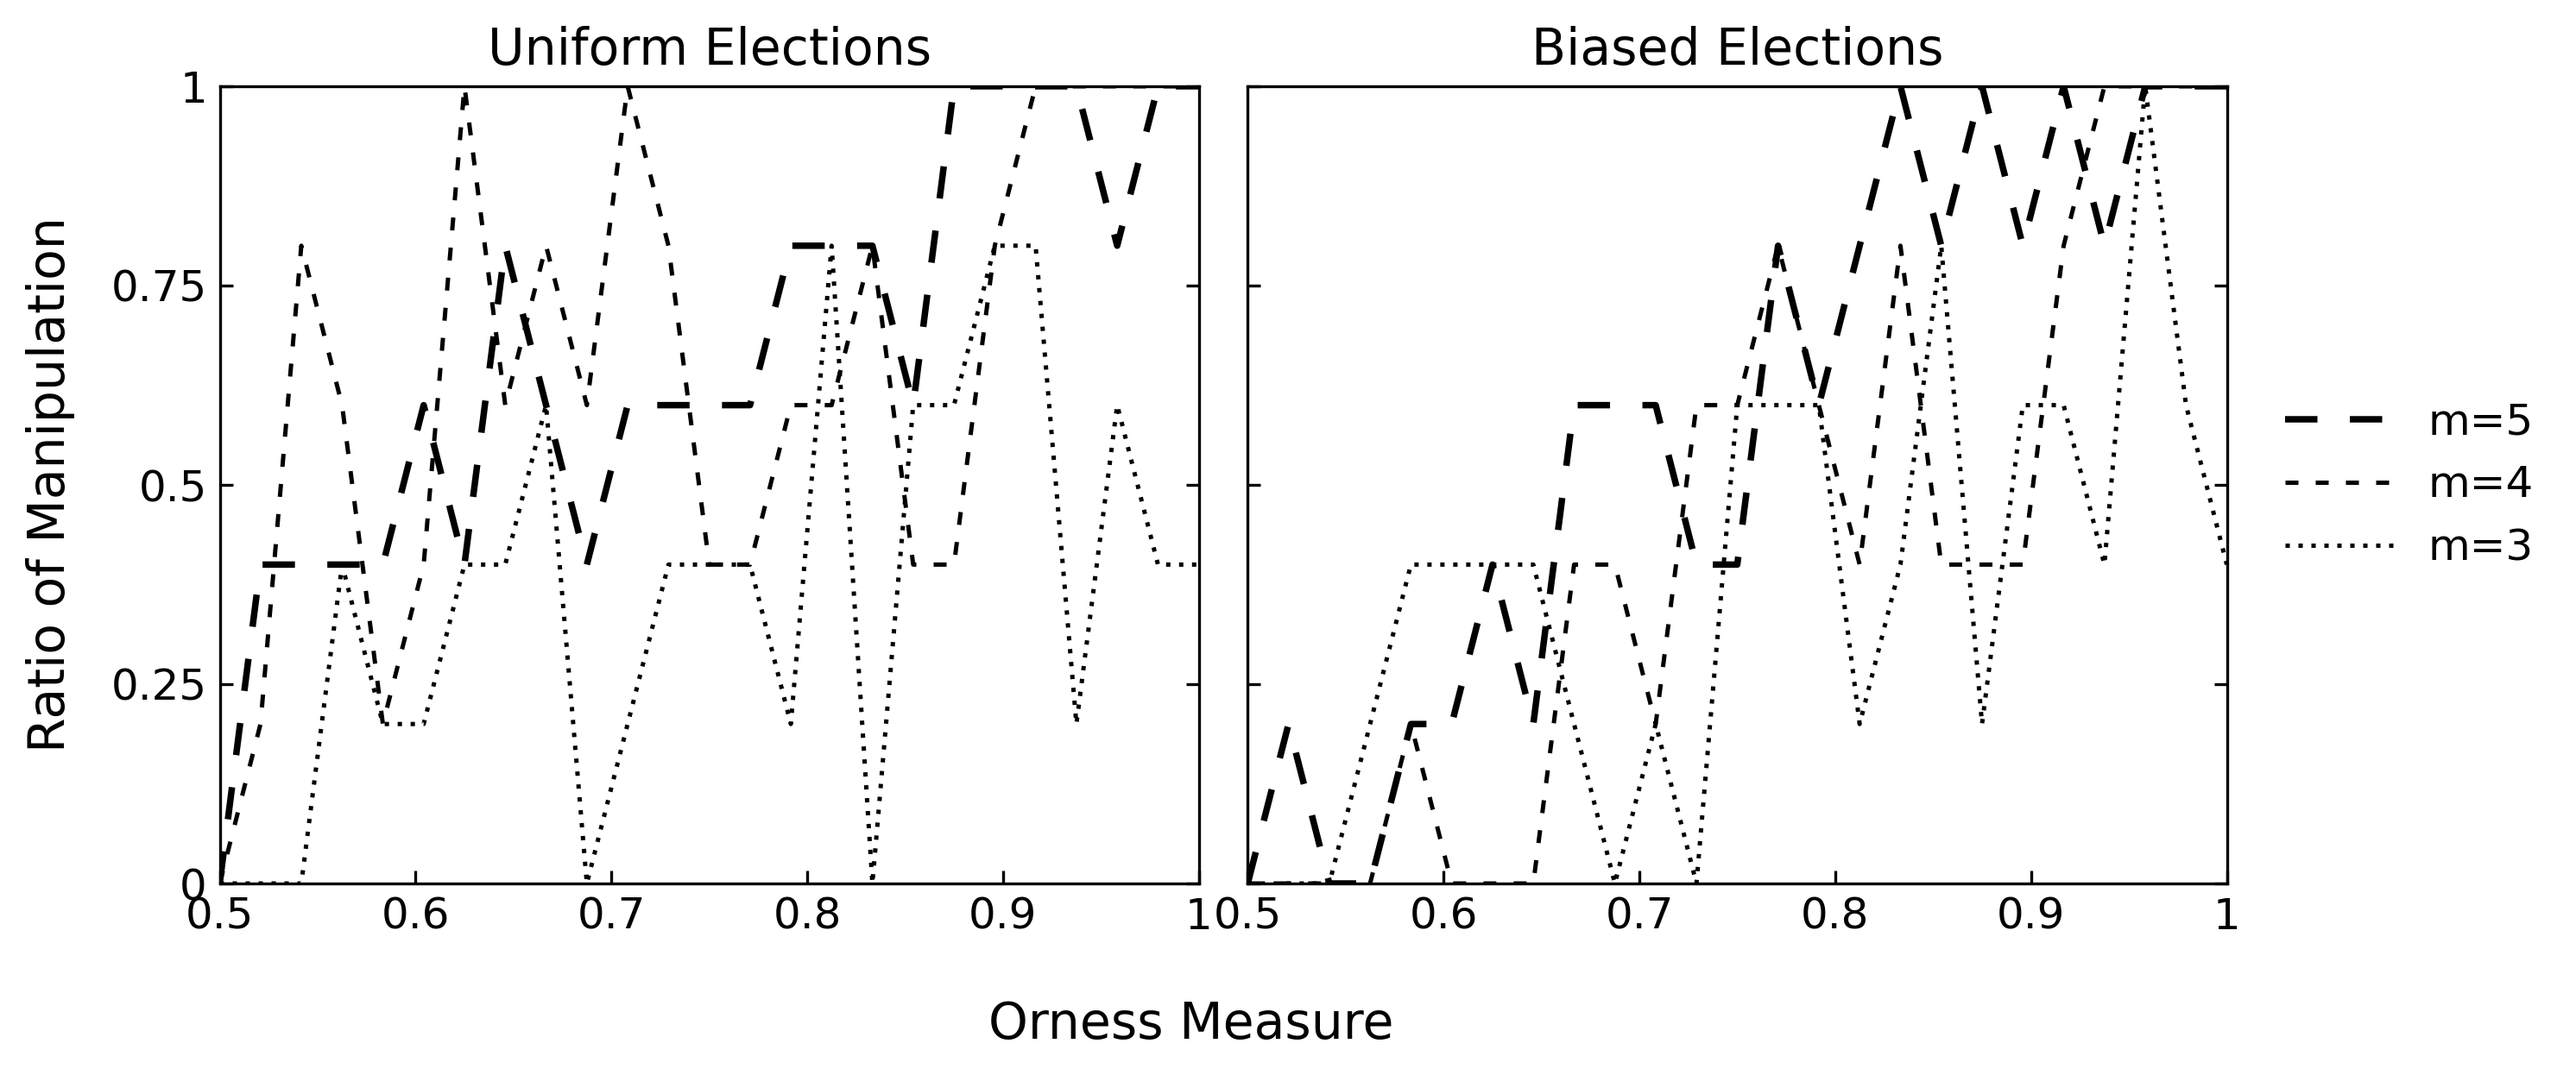
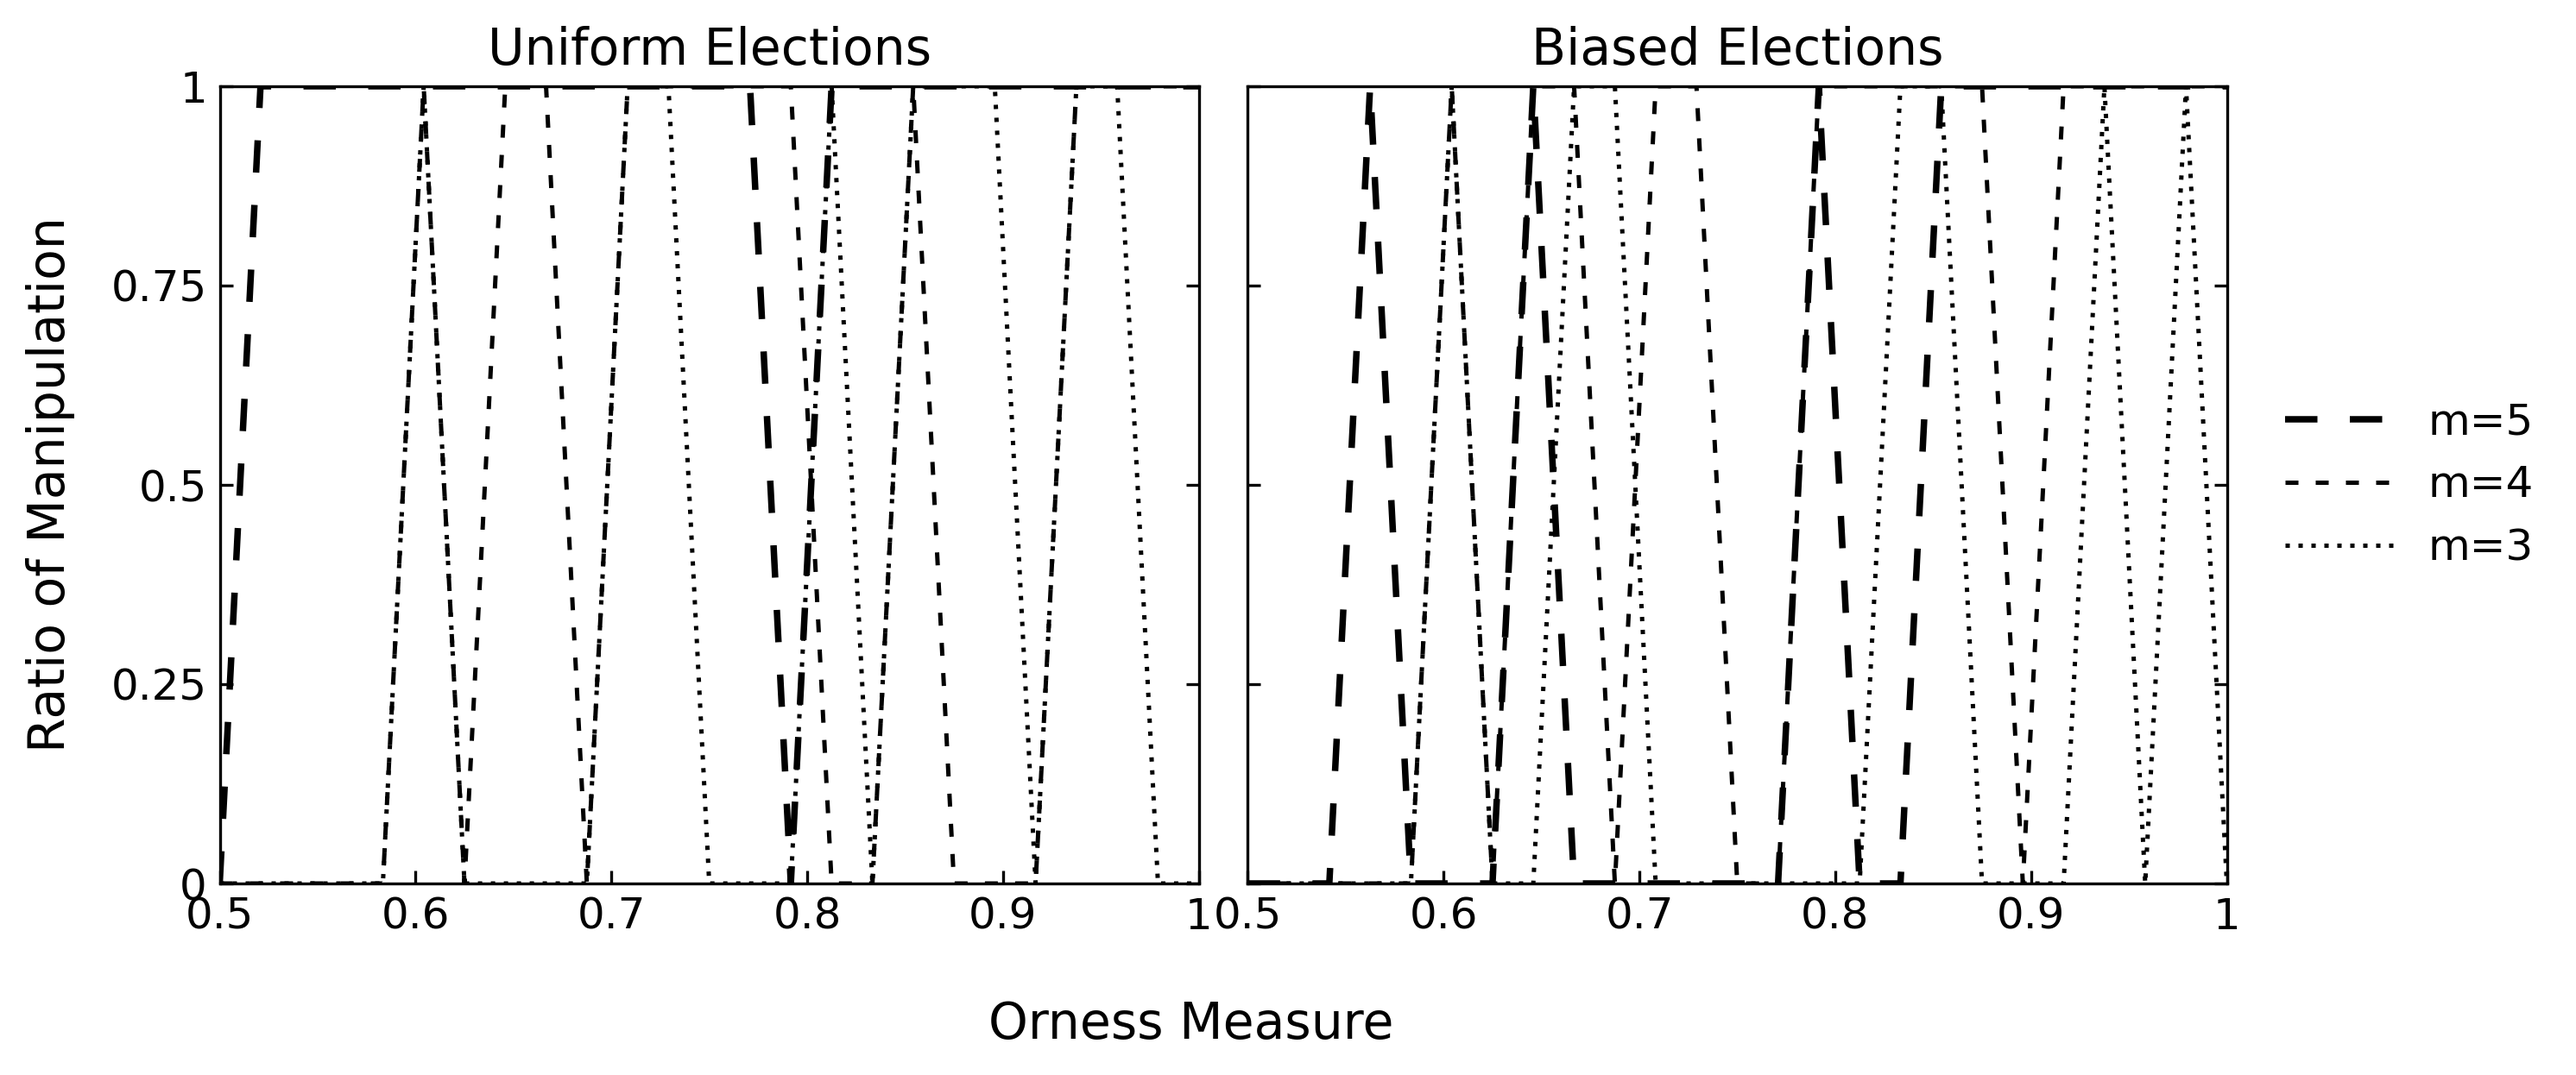
experiments new func parameters

diff --git a/papers/manipulation_of_hamming/manipulation_of_hamming.py b/papers/manipulation_of_hamming/manipulation_of_hamming.py
@@ -2,13 +2,17 @@ import numpy as np
 import pandas as pd
 from concurrent.futures import ProcessPoolExecutor
 import os
+import logging
+from pathlib import Path
 
 from votekit.pref_profile.approval_profile import ApprovalProfile
 from votekit.elections.election_types.approval.hamming import OrderedWeightedHamming
 from votekit.ballot_generator.std_generator.approval_impartial_culture import approval_ic_profile_generator, approval_biased_profile_generator
 
+
 def orness(n, fi):
     return (n + fi - 1) / (2 * (n - 1))
+
 
 def get_elected_committee(profile, weights_type="minisum"):
     election = OrderedWeightedHamming(profile=profile, weights=weights_type)
@@ -18,8 +22,10 @@ def get_elected_committee(profile, weights_type="minisum"):
 
     return np.array([c in elected_tuple[0] for c in profile.candidates])
 
+
 def get_hamming_dist(ballot_vec, committee):
     return np.sum(ballot_vec != committee)
+
 
 def can_voter_manipulate(voter_idx, profile, weights_type="minimax"):
     candidates = profile.candidates
@@ -43,6 +49,7 @@ def can_voter_manipulate(voter_idx, profile, weights_type="minimax"):
 
     return False
 
+
 def _single_iteration(args):
     """Module-level function required for pickling with multiprocessing."""
     candidates, n_voters, weights_type, gen = args
@@ -52,12 +59,20 @@ def _single_iteration(args):
             return 1
     return 0
 
-def get_manipulability_ratio(candidates, n_voters, gen, weights_type, n_iterations):
-    n_jobs = os.cpu_count()
+
+def get_manipulability_ratio(candidates, n_voters, gen, weights_type, n_iterations, *, n_jobs=1):
     args = [(candidates, n_voters, weights_type, gen)] * n_iterations
 
-    with ProcessPoolExecutor(max_workers=n_jobs) as executor:
-        results = list(executor.map(_single_iteration, args, chunksize=max(1, n_iterations // (n_jobs * 4))))
+    if n_jobs == 1:
+        results = [_single_iteration(arg) for arg in args]
+    else:
+        if n_jobs == -1:
+            n_jobs = os.cpu_count()
+        elif n_jobs < -1:
+            n_jobs = -int(os.cpu_count() / n_jobs)
+
+        with ProcessPoolExecutor(max_workers=n_jobs) as executor:
+            results = list(executor.map(_single_iteration, args, chunksize=max(1, n_iterations // (n_jobs * 4))))
 
     return sum(results) / n_iterations
 
@@ -66,31 +81,42 @@ def save_data(path, data):
     df = pd.DataFrame(data)
     df.to_csv(path, index=False)
 
-def tests(path, n_voters, trials, m_candidates, gen):
+
+def tests(path, n_voters, n_iterations, candidates, gen, *, n_jobs=1, verbose=True):
+    log_level = logging.INFO if verbose else logging.WARNING
+    logging.basicConfig(level=log_level, format='%(message)s')
+
     results = []
-    for m in m_candidates:
-        candidates = [str(i) for i in range(m)]
-        for fi in range(n_voters):
-            manipulability_ratio = get_manipulability_ratio(candidates, n_voters, gen, ("f", fi), trials)
+    for i, m in enumerate(candidates):
+        inner_candidates = [str(k) for k in range(m)]
+        for j, fi in enumerate(range(n_voters)):
+            manipulability_ratio = get_manipulability_ratio(inner_candidates, n_voters, gen, ("f", fi), n_iterations, n_jobs=n_jobs)
             results.append({
                 'm': m,
                 'orness': orness(n_voters, fi),
                 'manipulability': manipulability_ratio
             })
-        print(f"Completed calculations for m={m}")
-    save_data(path, results)
+            logging.info(f"Calculations completion [{(i*n_voters+j+1)/(len(candidates)*n_voters):.2%}]")
+        logging.info(f"Completed calculations for {m} candidates")
+    save_data(path.with_suffix(".csv"), results)
 
-def variable_voters_tests(path, n_voters, trials, candidates, gen, weights):
+
+def variable_voters_tests(path, voters, n_iterations, candidates, gen, weights, *, n_jobs=1, verbose=True):
+    log_level = logging.INFO if verbose else logging.WARNING
+    logging.basicConfig(level=log_level, format='%(message)s')
+
     results = []
-    for name, w in weights:
-        for n in n_voters:
-            manipulability_ratio = get_manipulability_ratio(candidates, n, gen, w(n), trials)
+    for i, (name, w) in enumerate(weights):
+        for j, n in enumerate(voters):
+            manipulability_ratio = get_manipulability_ratio(candidates, n, gen, w(n), n_iterations, n_jobs=n_jobs)
             results.append({
                 'f': name,
                 'n': n,
                 'manipulability': manipulability_ratio
             })
-    save_data(path, results)
+            logging.info(f"Calculations completion [{(i*len(voters)+j+1)/(len(weights)*len(voters)):.2%}]")
+        logging.info(f"Completed calculations for weight {name}")
+    save_data(path.with_suffix(".csv"), results)
 
 # if __name__ == "__main__":
 #     TRIALS = 10000

diff --git a/papers/manipulation_of_hamming/experiments_enhanced/experimet_1.py b/papers/manipulation_of_hamming/experiments_enhanced/experimet_1.py
@@ -6,26 +6,34 @@ from votekit.ballot_generator.std_generator.approval_impartial_culture import ap
 print(RESULTS_DIRECTORY_PATH / "experiment_1_uniform.csv")
 
 PARAMS_1 = {
-    "path": RESULTS_DIRECTORY_PATH / "experiment_1_uniform.csv",
+    "path": RESULTS_DIRECTORY_PATH / "experiment_1_uniform",
     "n_voters": 25,
-    "trials": 5,
-    "m_candidates": [3, 4, 5],
-    "gen": approval_ic_profile_generator
+    "n_iterations": 1,
+    "candidates": [3, 4, 5],
+    "gen": approval_ic_profile_generator,
+    "n_jobs": -3,
+    "verbose": True
 }
 
 PARAMS_2 = {
-    "path": RESULTS_DIRECTORY_PATH / "experiment_1_biased.csv",
+    "path": RESULTS_DIRECTORY_PATH / "experiment_1_biased",
     "n_voters": 25,
-    "trials": 5,
-    "m_candidates": [3, 4, 5],
-    "gen": approval_biased_profile_generator
+    "n_iterations": 1,
+    "candidates": [3, 4, 5],
+    "gen": approval_biased_profile_generator,
+    "n_jobs": -3,
+    "verbose": True
 }
 
 
 def run_experiment_1():
     print(f"Starting experiment_1")
-    tests(**PARAMS_1)
-    tests(**PARAMS_2)
+    for i in range(50):
+        print(f"Starting iteration {i+1}/50")
+        PARAMS_1["path"] = RESULTS_DIRECTORY_PATH / f"experiment_1_uniform_{i}"
+        PARAMS_2["path"] = RESULTS_DIRECTORY_PATH / f"experiment_1_biased_{i}"
+        tests(**PARAMS_1)
+        tests(**PARAMS_2)
     print(f"Completed experiment_1")
 
 

diff --git a/papers/manipulation_of_hamming/experiments_enhanced/experimet_2.py b/papers/manipulation_of_hamming/experiments_enhanced/experimet_2.py
@@ -12,18 +12,23 @@ WEIGHTS_CONFIG = [
     ]
 
 PARAMS = {
-    "path": RESULTS_DIRECTORY_PATH / "experiment_2.csv",
-    "n_voters": [n for n in range(5, 71, 5)],
-    "trials": 1,
+    "path": RESULTS_DIRECTORY_PATH / "experiment_2",
+    "voters": [n for n in range(5, 71, 5)],
+    "n_iterations": 10000,
     "candidates": ["A", "B", "C", "D", "E"],
     "gen": approval_ic_profile_generator,
-    "weights": WEIGHTS_CONFIG
+    "weights": WEIGHTS_CONFIG,
+    "n_jobs": -3,
+    "verbose": True
 }
 
 
 def run_experiment_2():
     print(f"Starting experiment_2")
-    variable_voters_tests(**PARAMS)
+    for i in range(50):
+        print(f"Starting iteration {i+1}/50")
+        PARAMS["path"] = RESULTS_DIRECTORY_PATH / f"experiment_2_{i}"
+        variable_voters_tests(**PARAMS)
     print(f"Completed experiment_2")
 
 

diff --git a/papers/manipulation_of_hamming/experiments/experimet_1.py b/papers/manipulation_of_hamming/experiments/experimet_1.py
@@ -8,17 +8,21 @@ print(RESULTS_DIRECTORY_PATH / "experiment_1_uniform.csv")
 PARAMS_1 = {
     "path": RESULTS_DIRECTORY_PATH / "experiment_1_uniform.csv",
     "n_voters": 25,
-    "trials": 10000,
-    "m_candidates": [3, 4, 5],
-    "gen": approval_ic_profile_generator
+    "n_iterations": 10000,
+    "candidates": [3, 4, 5],
+    "gen": approval_ic_profile_generator,
+    "n_jobs": -2,
+    "verbose": True
 }
 
 PARAMS_2 = {
     "path": RESULTS_DIRECTORY_PATH / "experiment_1_biased.csv",
     "n_voters": 25,
-    "trials": 10000,
-    "m_candidates": [3, 4, 5],
-    "gen": approval_biased_profile_generator
+    "n_iterations": 10000,
+    "candidates": [3, 4, 5],
+    "gen": approval_biased_profile_generator,
+    "n_jobs": -2,
+    "verbose": True
 }
 
 

diff --git a/papers/manipulation_of_hamming/experiments/experimet_2.py b/papers/manipulation_of_hamming/experiments/experimet_2.py
@@ -13,11 +13,13 @@ WEIGHTS_CONFIG = [
 
 PARAMS = {
     "path": RESULTS_DIRECTORY_PATH / "experiment_2.csv",
-    "n_voters": [n for n in range(5, 71, 5)],
-    "trials": 10000,
+    "voters": [n for n in range(5, 71, 5)],
+    "n_iterations": 10000,
     "candidates": ["A", "B", "C", "D", "E"],
     "gen": approval_ic_profile_generator,
-    "weights": WEIGHTS_CONFIG
+    "weights": WEIGHTS_CONFIG,
+    "n_jobs": -2,
+    "verbose": True
 }
 
 
